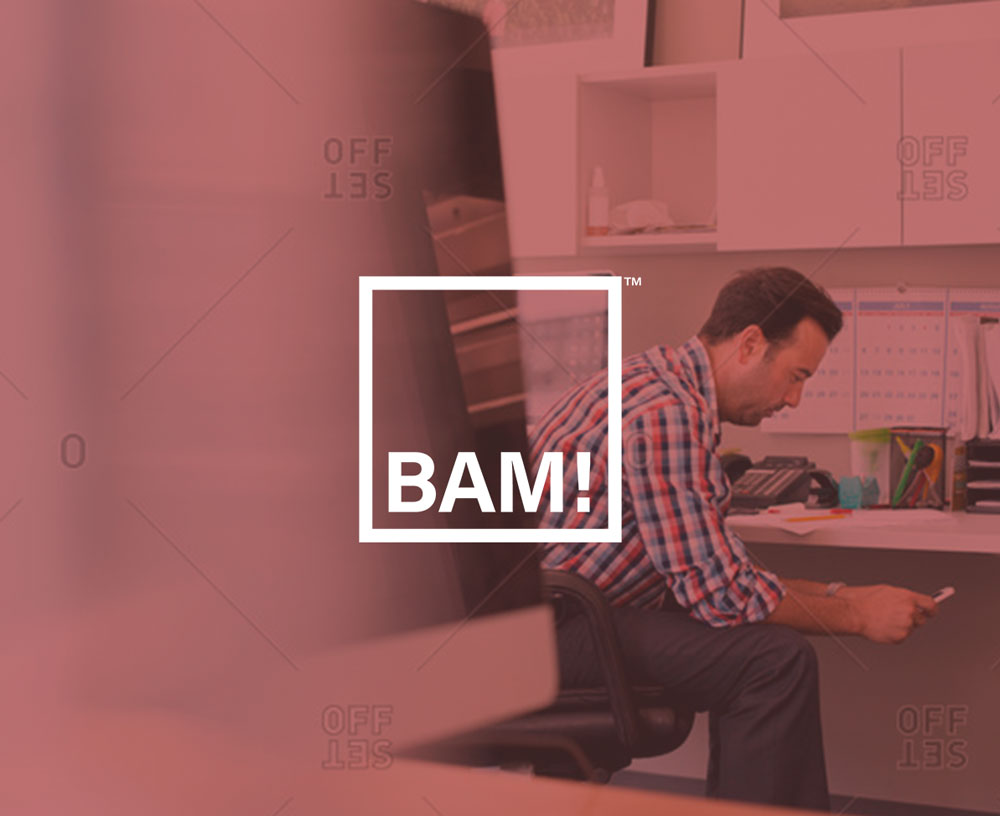
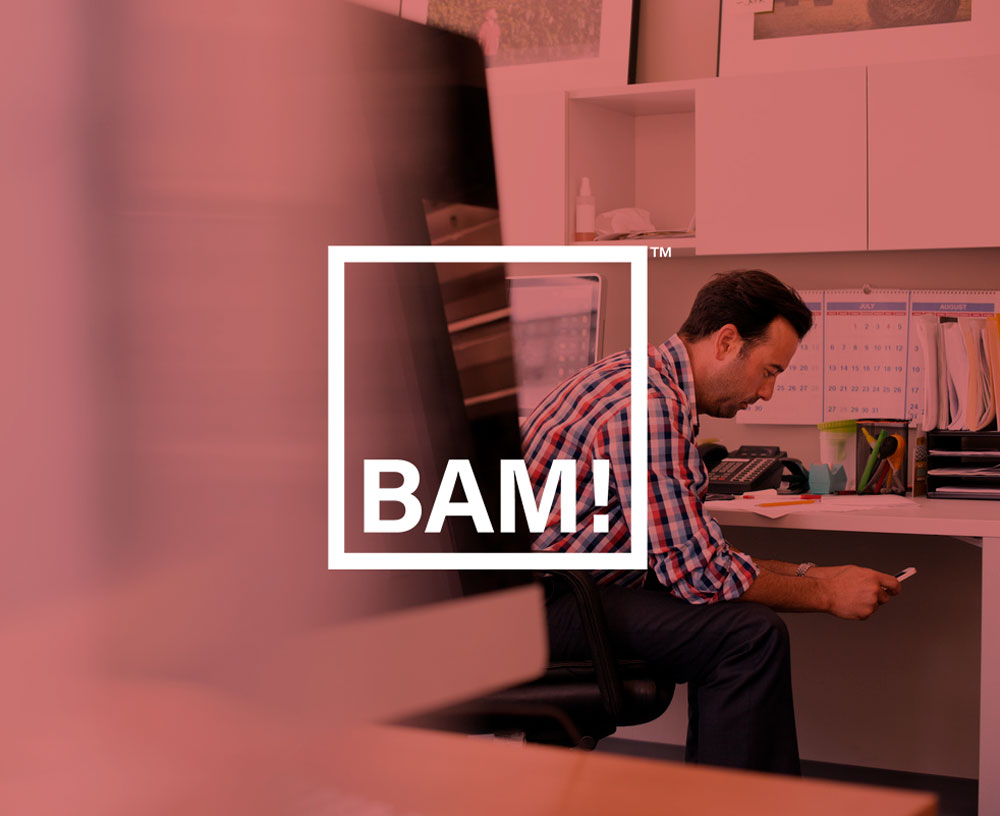
Uploads purchased images

diff --git a/wp-content/themes/pop-art-theme/page-templates/custom-software.php b/wp-content/themes/pop-art-theme/page-templates/custom-software.php
@@ -38,7 +38,7 @@ get_header(); ?>
 	
 	<section class="custom-software-tiles">
 		<div class="custom-software-tile-image">
-			<img src="<?php echo get_template_directory_uri(); ?>/assets/images/custom-software/built-to-work.png" alt="Built to Work">
+			<img src="<?php echo get_template_directory_uri(); ?>/assets/images/custom-software/built-to-work.jpg" alt="Built to Work">
 		</div>
 		
 		<div class="custom-software-tile-content">
@@ -54,13 +54,13 @@ get_header(); ?>
 		</div>
 		
 		<div class="custom-software-tile-image">
-			<img src="<?php echo get_template_directory_uri(); ?>/assets/images/custom-software/built-to-work.png" alt="Built to Work">
+			<img src="<?php echo get_template_directory_uri(); ?>/assets/images/custom-software/designed-for-user.jpg" alt="Designed for the User">
 		</div>
 	</section>
 	
 	<section class="custom-software-tiles">	
 		<div class="custom-software-tile-image">
-			<img src="<?php echo get_template_directory_uri(); ?>/assets/images/custom-software/built-to-work.png" alt="Built to Work">
+			<img src="<?php echo get_template_directory_uri(); ?>/assets/images/custom-software/iterative-prototyping.jpg" alt="Iterative Prototyping">
 		</div>
 		
 		<div class="custom-software-tile-content">
@@ -76,7 +76,7 @@ get_header(); ?>
 		</div>
 		
 		<div class="custom-software-tile-image">
-			<img src="<?php echo get_template_directory_uri(); ?>/assets/images/custom-software/built-to-work.png" alt="Built to Work">
+			<img src="<?php echo get_template_directory_uri(); ?>/assets/images/custom-software/agile-development.jpg" alt="Agile Development">
 		</div>
 	</section>
 	
